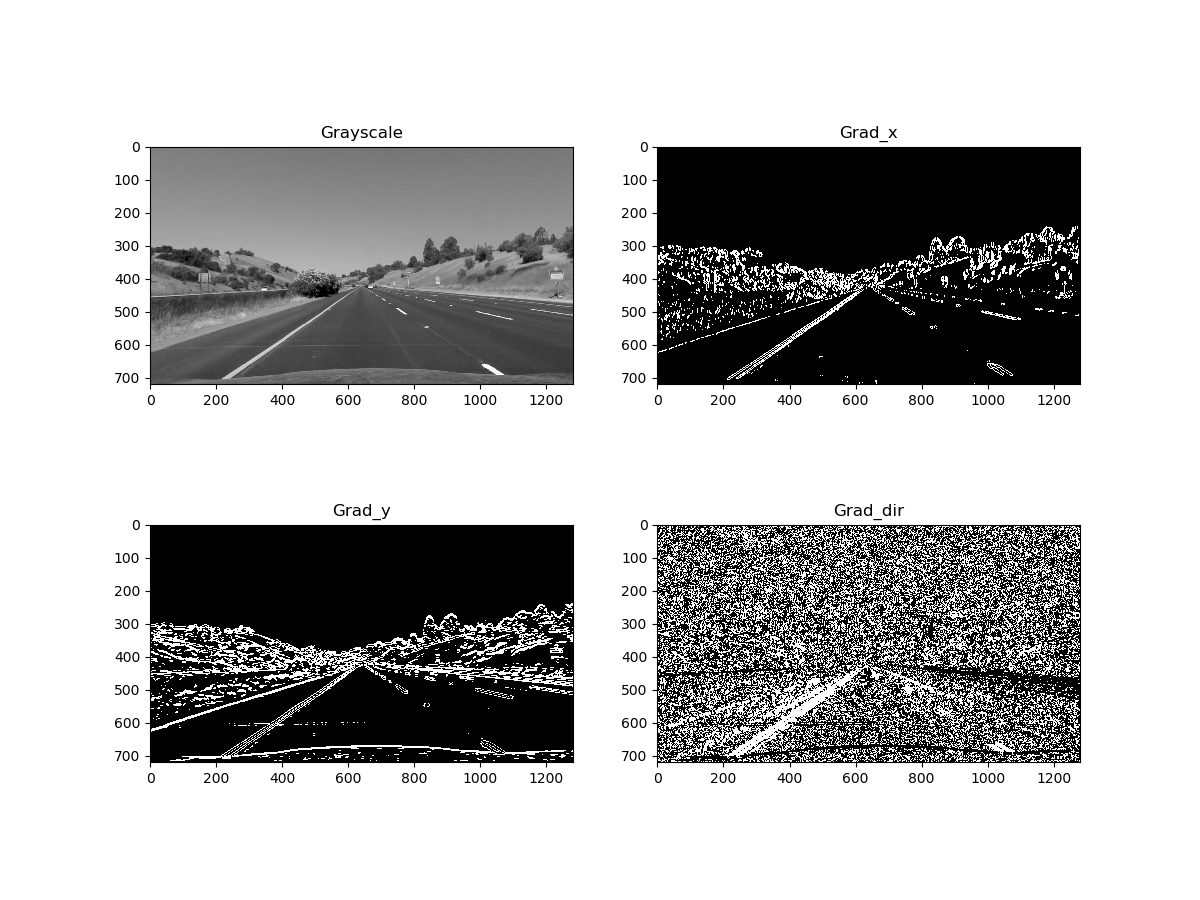
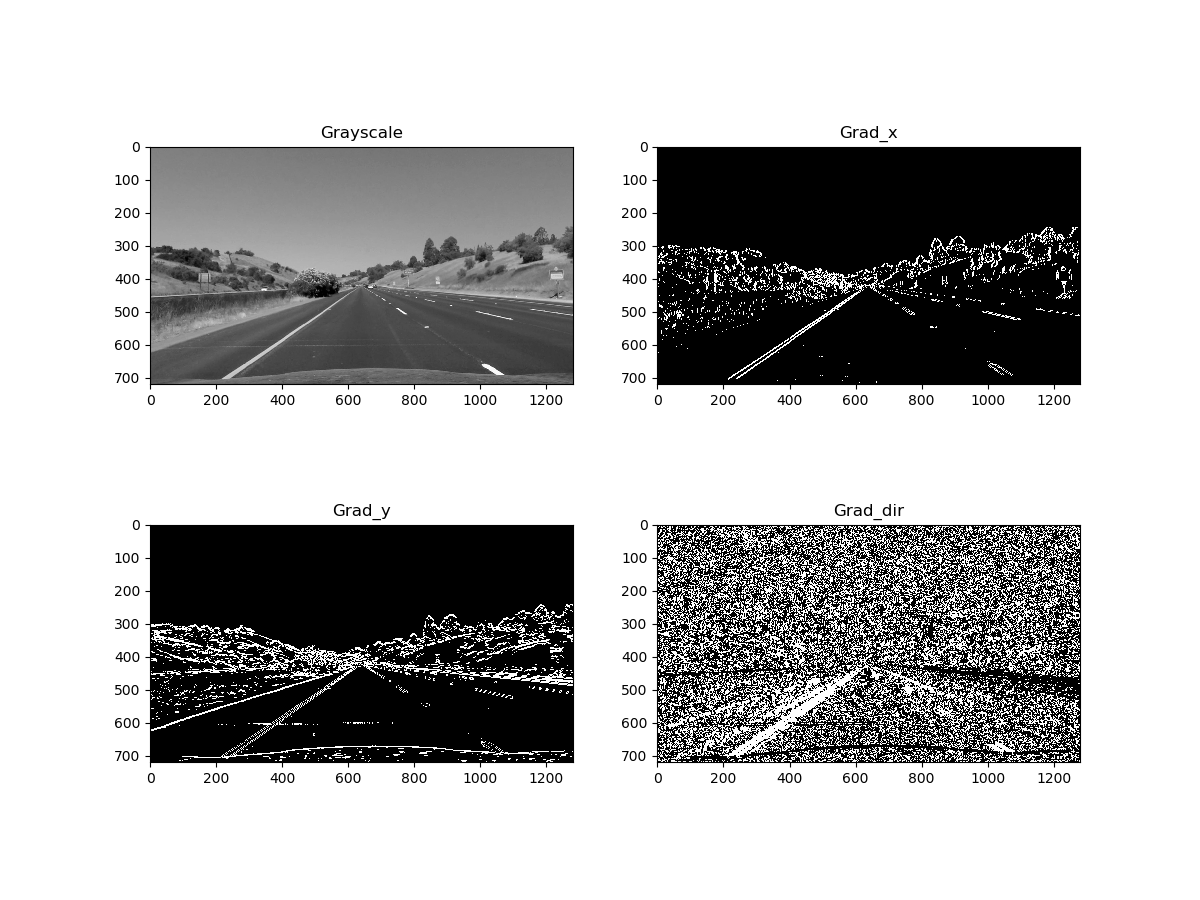
routine update

diff --git a/P2_AdvancedLaneFinding.py b/P2_AdvancedLaneFinding.py
@@ -126,11 +126,11 @@ image_list = ['straight_lines1.jpg',
               'test5.jpg',
               'test6.jpg']
 
-input_image = "test_images"+os.sep + image_list[0]
+input_image = "test_images"+os.sep + image_list[1]
 
 
 SHOW_STEPS = True
-sobel_kernel = 17
+sobel_kernel = 7
 
 #take image name, make a directory for each, for output (used if plotting is on)
 img_basename = os.path.basename(input_image).split('.jpg')[0]    
@@ -228,10 +228,8 @@ mask = S_mask | gradx_mask | R_mask
 #compute a perspective transform M, given source and destination points:
     
 #based on a Ny x Nx = 720 x 1280 image (straight_lines.jpg)    
-pts_img = np.float32([[192,720], [600+1, 445],
-                      [680-4, 445],[1118, 720]])
-
-aa = np.float32([[192,720,1], [601,445,1],  [676,445,1], [1118,720,1]]).T
+pts_img = np.float32([[190+1,720], [600+1, 445],
+                      [680-2, 445],[1120-2, 720]])
 
 #make closed polygons for plotting
 x_img, y_img = closePolygon(pts_img) 
